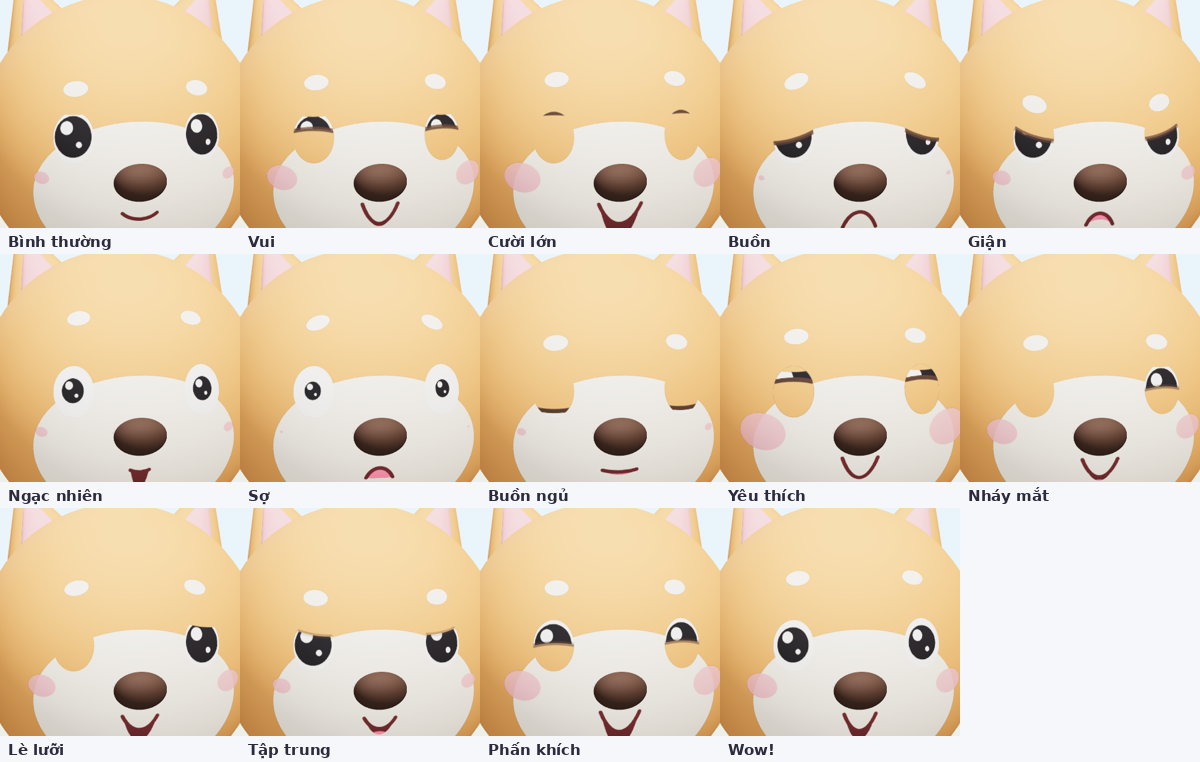
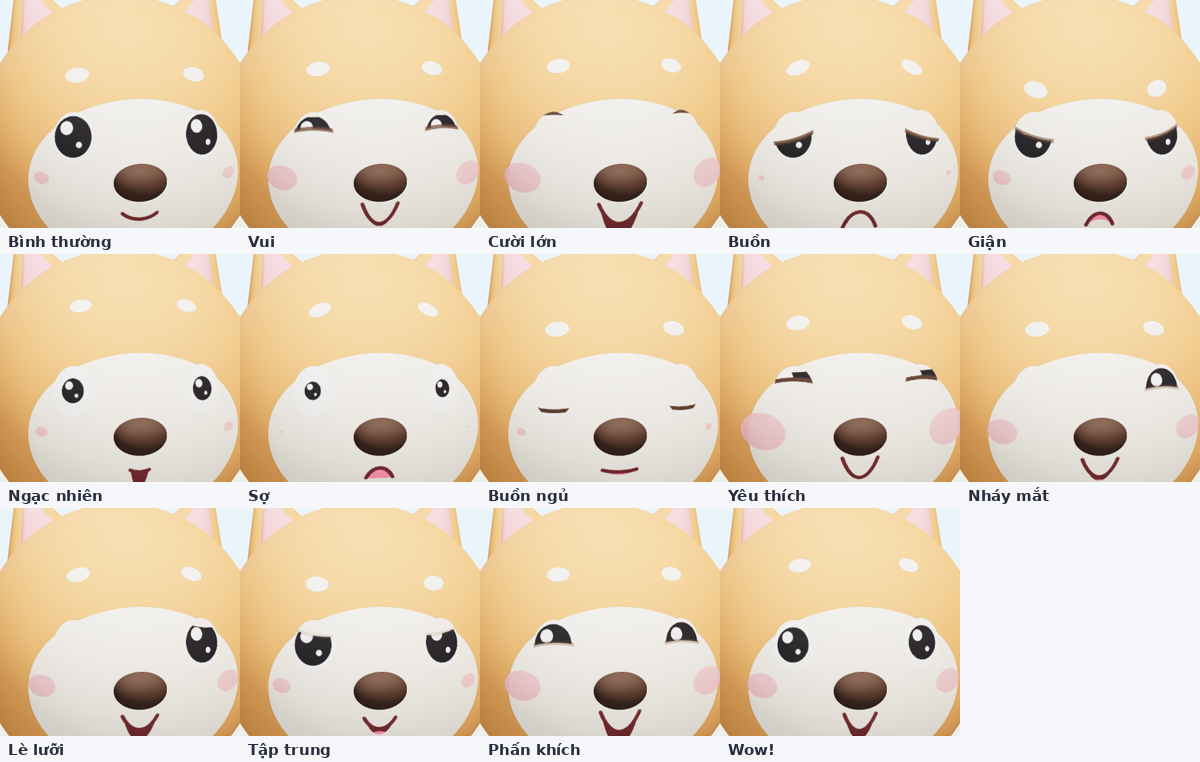
Fill shiba eyelids with the light mask color instead of erasing
Claude-Session: https://claude.ai/code/session_01XfAFHLUWr4VmbzBbTFZedP

diff --git a/character/js/face2d.js b/character/js/face2d.js
@@ -66,7 +66,8 @@ export function createFacePlate(profile, headRadius, layout) {
  * Vẽ toàn bộ khuôn mặt theo tham số f (xem face.js), bảng màu c và bố cục L:
  *  L.muzzle {x,y,rx,ry} | null      mảng mõm sáng màu
  *  L.mask   (ctx, h, c) => void      vẽ thêm mảng lông tuỳ ý (h = {X, Y, ell, sx, sy})
- *  L.eye    {x,y,rx,ry,pupil}        vị trí / cỡ mắt, bán kính con ngươi
+ *  L.eye    {x,y,rx,ry,pupil,lidFill} vị trí / cỡ mắt, bán kính con ngươi; lidFill = khoá màu tô mí
+ *                                    (vd 'belly' khi mắt nằm trên mảng lông sáng), bỏ trống = xoá trong suốt lộ đầu
  *  L.brow   {type:'line'|'dot', x,y,len,width} | null
  *  L.blush  {x,y,rx,ry}
  *  L.mouth  {y,w,k}                  vị trí, bề rộng, độ cong tối đa
@@ -126,7 +127,8 @@ export function drawFace(ctx, f, c, L) {
     const dTop = (ry + R) - lidTop * (2 * ry + 0.06);
     const dBot = (ry + R) - lidBot * (2 * ry + 0.06);
     ctx.translate(X(cx), Y(cy));
-    ctx.globalCompositeOperation = 'destination-out';
+    if (L.eye.lidFill) ctx.fillStyle = c[L.eye.lidFill];
+    else ctx.globalCompositeOperation = 'destination-out';
     ctx.rotate(tilt);
     ctx.beginPath(); ctx.ellipse(0, -dTop * sy, R * sx, R * sy, 0, 0, Math.PI * 2); ctx.fill();
     ctx.rotate(-tilt * 1.4);

diff --git a/character/js/characters/shiba.js b/character/js/characters/shiba.js
@@ -25,10 +25,10 @@ export const FACE_LAYOUT = {
   muzzle: null,
   mask(ctx, h, c) {
     ctx.fillStyle = c.belly;
-    h.ell(0, -0.30, 0.64, 0.46); ctx.fill();          // mõm + hai má
+    h.ell(0, -0.22, 0.66, 0.50); ctx.fill();          // mõm + hai má + quanh mắt (urajiro)
   },
-  eye: { x: 0.36, y: 0.08, rx: 0.115, ry: 0.135, pupil: 0.105 },
-  brow: { type: 'dot', x: 0.36, y: 0.34, len: 0.075, width: 0.045 },
+  eye: { x: 0.36, y: 0.08, rx: 0.115, ry: 0.135, pupil: 0.105, lidFill: 'belly' },
+  brow: { type: 'dot', x: 0.36, y: 0.42, len: 0.075, width: 0.045 },
   blush: { x: 0.56, y: -0.14, rx: 0.10, ry: 0.07 },
   mouth: { y: -0.36, w: 0.20, k: 0.08 },
 };
